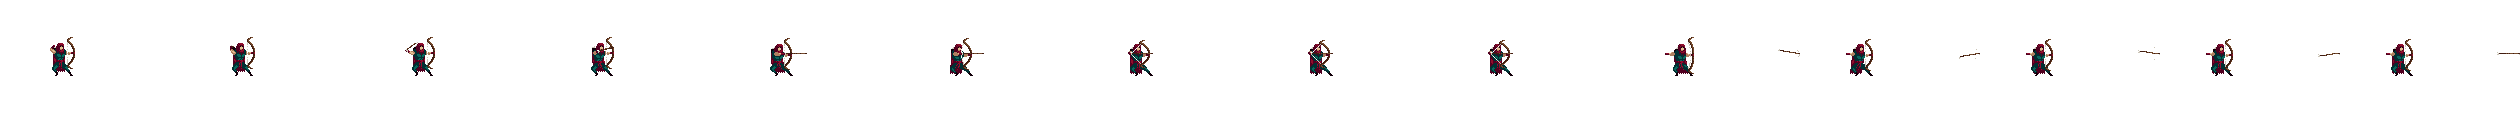
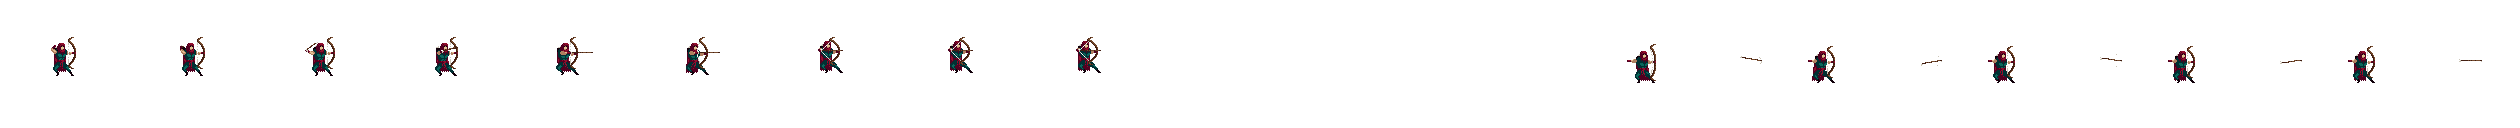
arqueiro dispara

diff --git a/js/models/characters/main/archer/Arrow.js b/js/models/characters/main/archer/Arrow.js
@@ -1,64 +1,28 @@
-// import Archer from "./Archer";
 
-// export default class Arrow extends Phaser.Physics.Arcade.Sprite {
+export default class Arrow extends Phaser.Physics.Arcade.Sprite {
+    constructor(scene, x, y,texture,frame) {
+        super(scene, x, y,texture,frame);
 
-//     constructor(scene) {
-//         super(scene, 0, 0, "arrow");
-//       }
+        scene.add.existing(this); 
+        scene.physics.add.existing(this); 
+        scene.physics.world.enable(this);
 
-//          create() {
- 
-//             // Create the group using the group factory
-//             arrow = game.add.group();
-//             // To move the sprites later on, we have to enable the body
-//             arrow.enableBody = true;
-//             // We're going to set the body type to the ARCADE physics, since we don't need any advanced physics
-//             arrow.physicsBodyType = Phaser.Physics.ARCADE;
-//             /*
-         
-//                 This will create 20 sprites and add it to the stage. They're inactive and invisible, but they're there for later use.
-//                 We only have 20 laser bullets available, and will 'clean' and reset they're off the screen.
-//                 This way we save on precious resources by not constantly adding & removing new sprites to the stage
-         
-//             */
-//            arrow.createMultiple(20, 'arrow');
-         
-//             /*
-         
-//                 Behind the scenes, this will call the following function on all lasers:
-//                     - events.onOutOfBounds.add(resetLaser)
-//                 Every sprite has an 'events' property, where you can add callbacks to specific events.
-//                 Instead of looping over every sprite in the group manually, this function will do it for us.
-         
-//             */
-//            arrow.callAll('events.onOutOfBounds.add', 'events.onOutOfBounds', resetLaser);
-//             // Same as above, set the anchor of every sprite to 0.5, 1.0
-//             arrow.callAll('anchor.setTo', 'anchor', 0.5, 1.0);
-         
-//             // This will set 'checkWorldBounds' to true on all sprites in the group
-//             arrow.setAll('checkWorldBounds', true);
-         
-//             // ...
-         
-//         }
-         
-//          resetLaser(laser) {
-//             // Destroy the laser
-//             arrow.kill();
-//         }
+        this.setScale(0.5)
+        this.setSize(60, 10);
+        this.setOffset(35,60);
 
+        this.baseVelocity = 300;
 
+        this.scene.anims.create({
+            key: 'archer_arrow', 
+            frames: this.scene.anims.generateFrameNumbers('archer_arrow', { start: 0, end: 3 }),
+            frameRate: 5,
+            repeat: -1,
+        });
+    }
 
-//         fireLaser() {
-//             // Get the first laser that's inactive, by passing 'false' as a parameter
-//             var arrow = arrow.getFirstExists(false);
-//             if (arrow) {
-//                 // If we have a laser, set it to the starting position
-//                 arrow.reset(Archer.x, Archer.y - 20);
-//                 // Give it a velocity of -500 so it starts shooting
-//                 arrow.body.velocity.y = -500;
-//             }
-// }
-
-// }
-
+    removeFromScreen() {
+        this.y = 700;
+        this.setVelocity(0, 0);
+    }
+}

diff --git a/js/models/characters/main/archer/Archer.js b/js/models/characters/main/archer/Archer.js
@@ -1,3 +1,5 @@
+import Arrow from "./Arrow.js";
+
 //import Arrow from "../../../models/characters/main/archer/Arrow.js";
 export default class Archer extends Phaser.Physics.Arcade.Sprite {
 
@@ -13,6 +15,13 @@ export default class Archer extends Phaser.Physics.Arcade.Sprite {
 
         this.velocity = 200;
 
+        this.bulletsMaxsize = 1;
+        this.archerBullets = this.scene.physics.add.group({
+            classType: Arrow,
+            maxSize: this.bulletsMaxsize,
+            allowGravity: false,
+        });
+
         // animations
         this.scene.anims.create({
             key: 'archer_run', 
@@ -27,18 +36,24 @@ export default class Archer extends Phaser.Physics.Arcade.Sprite {
             frameRate: 15,
             repeat: -1,
         });
-        /*
-        //Não funciona
+
         this.scene.anims.create({
-            key: 'jump', 
-            frames: this.scene.anims.generateFrameNumbers('archer_jump', { start: 0, end: 11 }),
+            key: 'archer_shoot', 
+            frames: this.scene.anims.generateFrameNumbers('archer_shoot', { start: 0, end: 8 }),
             frameRate: 15,
             repeat: 1,
         });
-        */
+
+        this.scene.anims.create({
+            key: 'archer_arrow', 
+            frames: this.scene.anims.generateFrameNumbers('archer_arrow', { start: 0, end: 3 }),
+            frameRate: 5,
+            repeat: -1,
+        });
+
     }
 
-    update(cursors){
+    update(cursors,time){
 
         this.setVelocityX(0);
         
@@ -57,10 +72,22 @@ export default class Archer extends Phaser.Physics.Arcade.Sprite {
             this.setVelocityX(-this.velocity);
             this.play('archer_run',true);
             this.flipX = true;
-        }else if (cursors.left.isDown && cursors.space.isDown) {
-            this.arrow.fireLaser
+        }else if (cursors.space.isDown) {
+            this.shoot(time);
         } else {
             this.play('archer',true);
+        }
+    }
+
+    // falta disparar em 1 click // 
+    shoot(time){
+        let bullet = this.archerBullets.getFirstDead(true, this.x, this.y-10,"archer_arrow",3);
+        this.play('archer_shoot',true);
+        if(bullet){
+            bullet.setVelocityX(bullet.baseVelocity);
+            bullet.active = true;
+            bullet.visible = true;
+            //this.timeToShoot = time + this.fireRate;
         }
     }
 

diff --git a/js/scene/maps/forest/Forest.js b/js/scene/maps/forest/Forest.js
@@ -48,7 +48,12 @@ export default class forest extends Phaser.Scene{
             frameHeight: 128
         });
 
-        this.load.spritesheet("archer_jump", "assets/characters/main/archer/ArcherJump.png", {
+        this.load.spritesheet("archer_shoot", "assets/characters/main/archer/ArcherAttack.png", {
+            frameWidth: 128,
+            frameHeight: 128
+        });
+
+        this.load.spritesheet("archer_arrow", "assets/characters/main/archer/arrow.png", {
             frameWidth: 128,
             frameHeight: 128
         });
@@ -152,7 +157,7 @@ export default class forest extends Phaser.Scene{
         this.spikes = this.map.createStaticLayer("spikes",castle_env,0,0);
         
         // personagens
-        this.archer = new Archer(this, 3800, 400);
+        this.archer = new Archer(this, 100, 400);
         //this.knight = new Knight(this,75,500);
 
         // *inimigos*
@@ -248,8 +253,19 @@ export default class forest extends Phaser.Scene{
             
         },this);
 
-        this.physics.add.collider(this.archer, this.wizard.wizardBullets, () => {
-            this.scene.restart();
+        // archer arrow (propriedades)
+        this.physics.add.overlap(this.archer.archerBullets, this.goblinGroup, (bullet,goblin) => {
+            this.goblinGroup.killAndHide(goblin);
+            goblin.removeFromScreen();
+            this.archer.archerBullets.killAndHide(bullet);
+            bullet.removeFromScreen();
+        });
+
+        this.physics.add.overlap(this.archer.archerBullets, this.mushGroup, (bullet,mushroom) => {
+            this.mushGroup.killAndHide(mushroom);
+            mushroom.removeFromScreen();
+            this.archer.archerBullets.killAndHide(bullet);
+            bullet.removeFromScreen();
         });
 
         // wizard (BOSS) monstros/propriedades
@@ -317,7 +333,7 @@ export default class forest extends Phaser.Scene{
 
         console.log(this.archer.x);
 
-        this.archer.update(this.cursors);
+        this.archer.update(this.cursors,time);
         //this.knight.update(this.cursors);
 
         // defrontar o boss

diff --git a/js/models/characters/enemies/Mushroom/Mushroom.js b/js/models/characters/enemies/Mushroom/Mushroom.js
@@ -98,4 +98,9 @@ export default class Mushroom extends Phaser.Physics.Arcade.Sprite {
         }
     }
 
+    removeFromScreen() {
+        this.x = -100;
+        this.setVelocity(0, 0);
+    }
+
 }

diff --git a/js/models/characters/enemies/Goblin/Goblin.js b/js/models/characters/enemies/Goblin/Goblin.js
@@ -43,4 +43,9 @@ export default class Goblin extends Phaser.Physics.Arcade.Sprite {
         }
 
     }
+
+    removeFromScreen() {
+        this.x = -100;
+        this.setVelocity(0, 0);
+    }
 }
